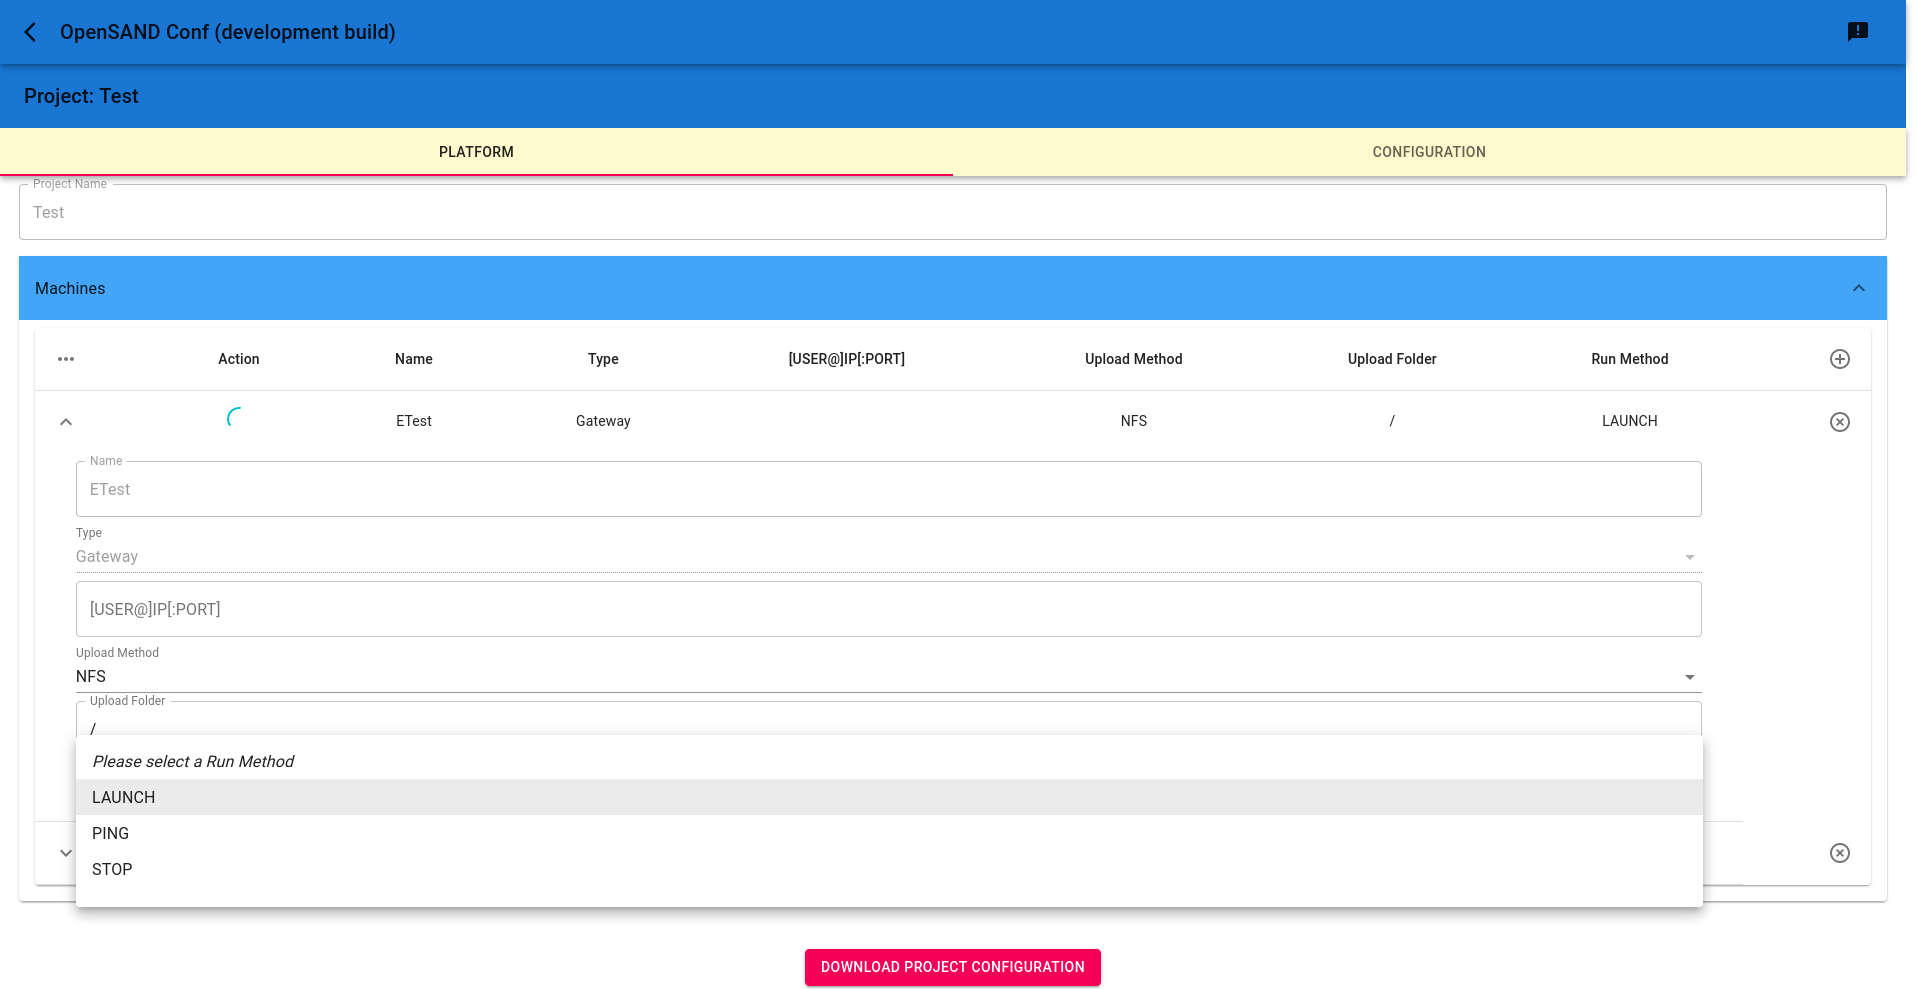
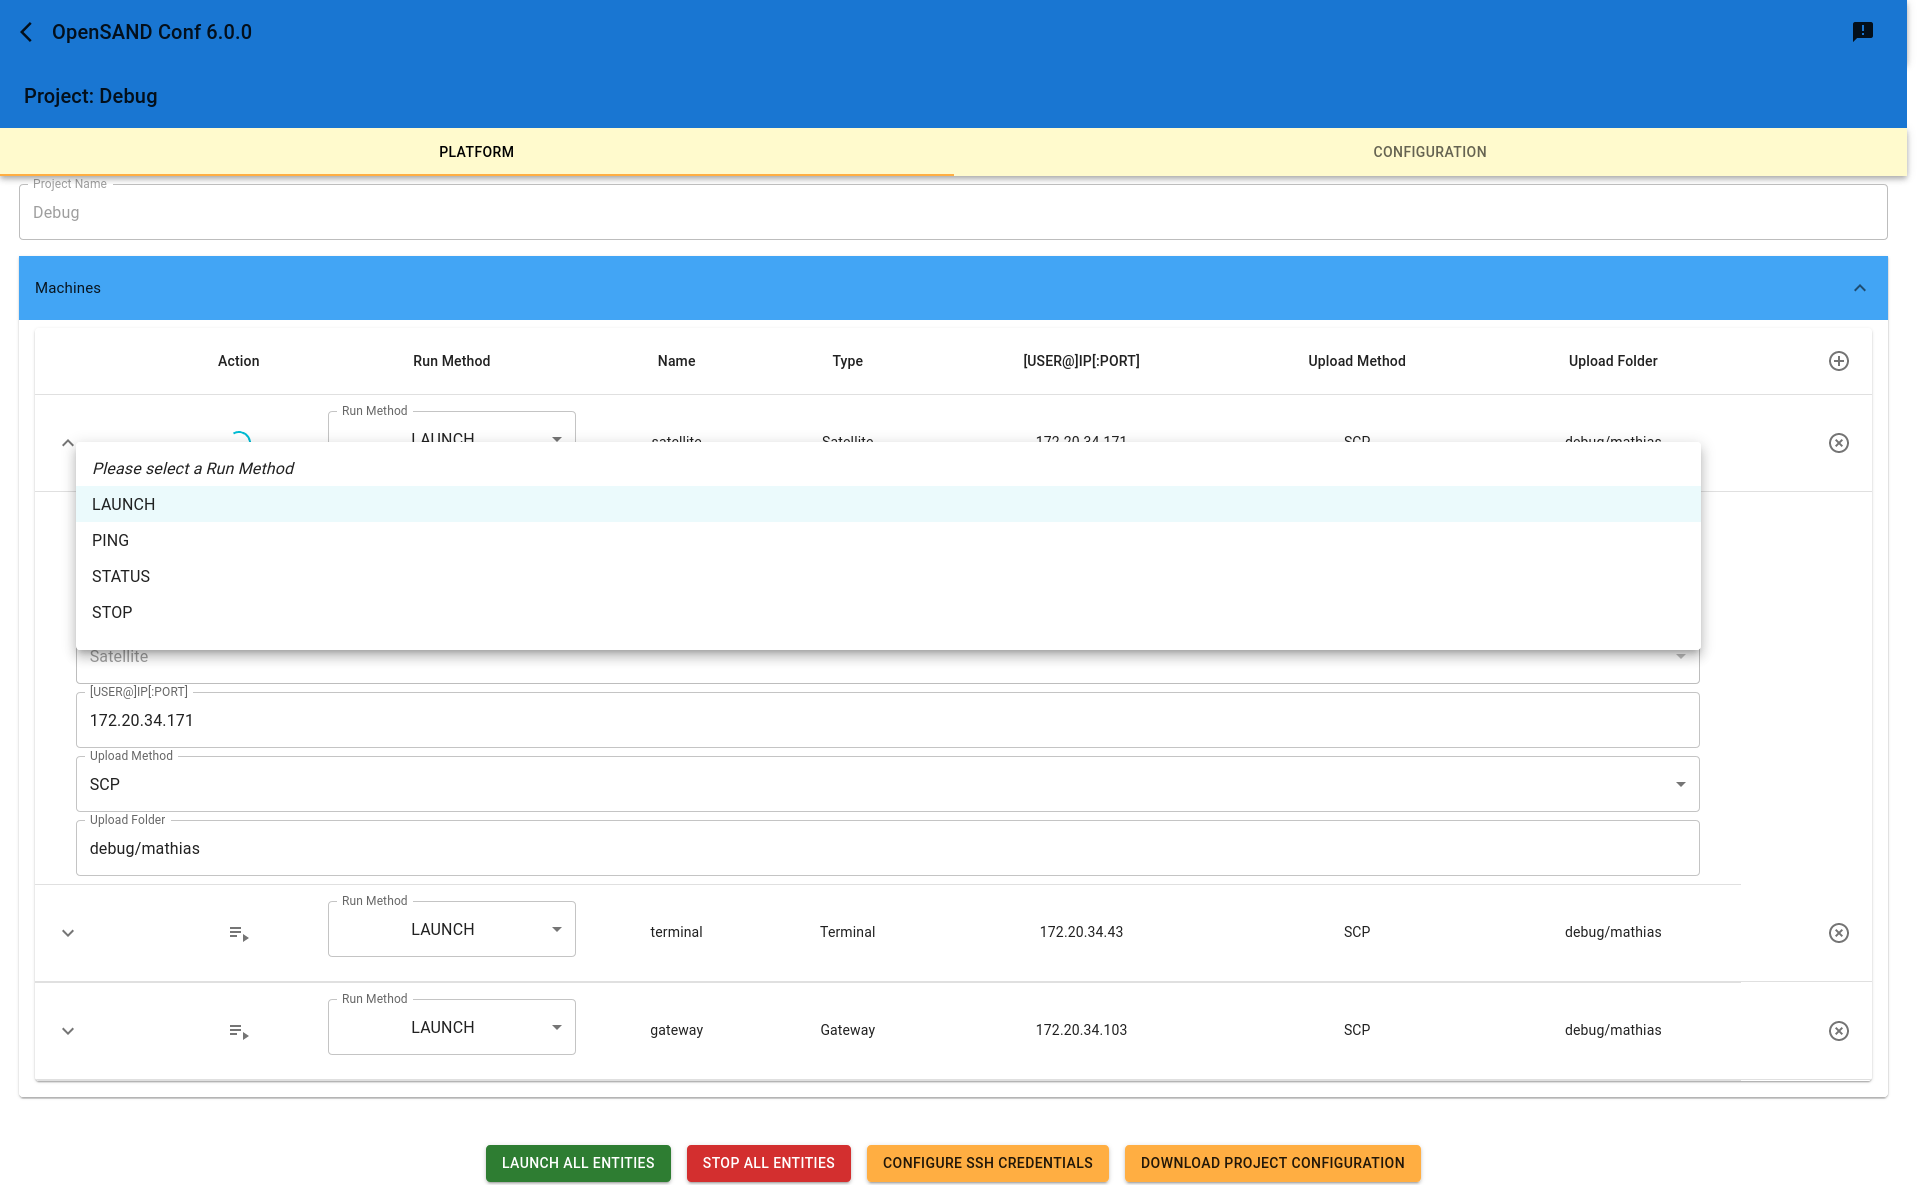
[opensand-deploy] Fixed ping command & updated documentation

diff --git a/opensand-deploy/src/frontend/src/components/Project/Project.tsx b/opensand-deploy/src/frontend/src/components/Project/Project.tsx
@@ -106,6 +106,7 @@ const Project: React.FC<Props> = (props) => {
     const navigate = useNavigate();
 
     const [handleNewEntityCreate, setNewEntityCreate] = React.useState<((entity: string, entityType: string) => void) | undefined>(undefined);
+    const [pingDestination, setPingDestination] = React.useState<string | null>(null);
 
     const handleOpen = React.useCallback((root: Component, mutator: MutatorCallback, submitForm: SaveCallback) => {
         setNewEntityCreate(() => (entity: string, entityType: string) => {
@@ -187,17 +188,10 @@ const Project: React.FC<Props> = (props) => {
     }, [name]);
 
     const handlePing = React.useCallback((destination: string) => {
-        if (name && source) {
-            dispatch(runSshCommand({
-                action: () => dispatch(pingEntity({
-                    project: name,
-                    entity: source.name,
-                    address: source.address,
-                    destination,
-                })),
-            }));
-        }
-    }, [dispatch, name, source]);
+        dispatch(runSshCommand({
+            action: () => setPingDestination(destination),
+        }));
+    }, [dispatch]);
 
     const displayAction = React.useCallback((index: number) => {
         const entity = findMachines(model?.root)?.elements[index];
@@ -244,6 +238,18 @@ const Project: React.FC<Props> = (props) => {
             dispatch(clearModel());
         };
     }, [dispatch, name]);
+
+    React.useEffect(() => {
+        if (name && source && pingDestination) {
+            dispatch(pingEntity({
+                project: name,
+                entity: source.name,
+                address: source.address,
+                destination: pingDestination,
+            }));
+            setPingDestination(null);
+        }
+    }, [dispatch, name, source, pingDestination]);
 
     return (
         <React.Fragment>

diff --git a/opensand-deploy/src/frontend/src/redux/ssh.ts b/opensand-deploy/src/frontend/src/redux/ssh.ts
@@ -13,7 +13,7 @@ interface SshState {
     show: boolean;
     open: boolean;
     configured: boolean;
-    lastAction: Date;
+    lastAction: number;
     nextAction?: ActionCallback;
 }
 
@@ -24,7 +24,7 @@ const initialState: SshState = {
     show: false,
     open: false,
     configured: false,
-    lastAction: new Date(),
+    lastAction: Number(new Date()),
 };
 
 
@@ -42,7 +42,7 @@ const sshSlice = createSlice({
             return {
                 ...state,
                 ...action.payload,
-                lastAction: new Date(),
+                lastAction: Number(new Date()),
                 configured: true,
             };
         },
@@ -56,7 +56,7 @@ const sshSlice = createSlice({
                 nextAction();
                 return {
                     ...state,
-                    lastAction: now,
+                    lastAction: Number(now),
                 };
             }
 

diff --git a/opensand-deploy/src/frontend/src/components/Project/PingDialog.tsx b/opensand-deploy/src/frontend/src/components/Project/PingDialog.tsx
@@ -16,7 +16,7 @@ import OpenedIcon from '@mui/icons-material/ArrowDropUp';
 import ClosedIcon from '@mui/icons-material/ArrowDropDown';
 
 import {useSelector, useDispatch} from '../../redux';
-import {clearPing} from '../../redux/ping';
+import {clearPing, closePing} from '../../redux/ping';
 
 
 const PingDialog: React.FC<Props> = (props) => {
@@ -42,7 +42,8 @@ const PingDialog: React.FC<Props> = (props) => {
     const handleValidate = React.useCallback((event: React.FormEvent<HTMLFormElement>) => {
         event.preventDefault();
         onValidate(destination);
-        handleClose();
+        setDestination("");
+        dispatch(closePing());
     }, [onValidate, handleClose, destination]);
 
     const handleCloseDestinations = React.useCallback(() => {

diff --git a/opensand-deploy/src/frontend/src/redux/ping.ts b/opensand-deploy/src/frontend/src/redux/ping.ts
@@ -24,6 +24,12 @@ const pingSlice = createSlice({
         clearPing: (state) => {
             return {...initialState};
         },
+        closePing: (state) => {
+            return {
+                ...state,
+                status: "idle",
+            };
+        },
         setPingingEntity: (state, action: PayloadAction<{name: string; address: string;} | undefined>) => {
             return {
                 ...initialState,
@@ -57,5 +63,5 @@ const pingSlice = createSlice({
 });
 
 
-export const {clearPing, setPingingEntity} = pingSlice.actions;
+export const {clearPing, closePing, setPingingEntity} = pingSlice.actions;
 export default pingSlice.reducer;

diff --git a/opensand-deploy/doc/usage.md b/opensand-deploy/doc/usage.md
@@ -83,6 +83,16 @@ You can manually stop the OpenSAND binary by selecting the STOP "Run Method". Su
 can be monitored by switching back to the LAUNCH method and checking wether the launch
 button or the progress circle is displayed.
 
+Please note that SSH credentials will only be asked once, for the first process you launched
+in an attempt to make it more straightforward for the majority of the configurations that
+have the same credentials on all the machines running OpenSAND binaries. If you somewhat
+need to change SSH credentials between each machines, you can use the "Configure SSH
+Credentials" button to save new ones that will be applied to the next LAUNCH or STOP
+operation.
+
+Lastly, as changing the "Run Method" to LAUNCH or STOP on each entity may be tedious, the
+"Launch All Entities" and "Stop All Entities" buttons are provided as a shortcut.
+
 ## Testing
 
 ![Ping](Ping.png)
